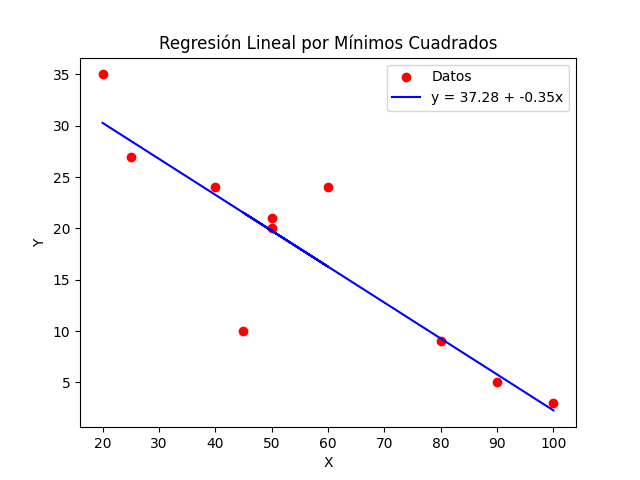
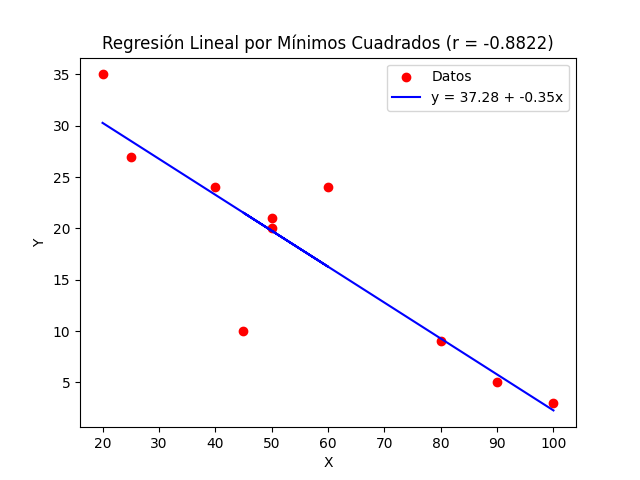
coeficiente

Changed region(s): [[0.1562, 0.0625, 0.875, 0.125]]

diff --git a/regresion.py b/regresion.py
@@ -1,4 +1,3 @@
-# regresion.py
 import matplotlib.pyplot as plt
 
 def calcular_regresion(x, y):
@@ -10,6 +9,7 @@ def calcular_regresion(x, y):
     sum_y = sum(y)
     sum_xy = sum(x[i] * y[i] for i in range(n))
     sum_x2 = sum(xi ** 2 for xi in x)
+    sum_y2 = sum(yi ** 2 for yi in y)
 
     # Calcular la pendiente (m)
     m = (n * sum_xy - sum_x * sum_y) / (n * sum_x2 - sum_x ** 2)
@@ -19,18 +19,42 @@ def calcular_regresion(x, y):
     # Calcular la intersección (b)
     b = y_media - m * x_media
 
+    # Calcular el coeficiente de correlación (r)
+    r_numerador = n * sum_xy - sum_x * sum_y
+    r_denominador = ((n * sum_x2 - sum_x ** 2) * (n * sum_y2 - sum_y ** 2)) ** 0.5
+    r = r_numerador / r_denominador if r_denominador != 0 else 0
+
     # Redondear resultados
     m = round(m, 2)
     b = round(b, 2)
+    r = round(r, 4)
 
-    return m, b
+    return m, b, r
 
-def graficar_regresion(x, y, m, b, output_path):
+def graficar_regresion(x, y, m, b, r, output_path):
     plt.scatter(x, y, color='red', label='Datos')
     plt.plot(x, [b + m * xi for xi in x], label=f'y = {b} + {m}x', color='blue')
     plt.xlabel('X')
     plt.ylabel('Y')
-    plt.title('Regresión Lineal por Mínimos Cuadrados')
+    plt.title(f'Regresión Lineal por Mínimos Cuadrados (r = {r})')
     plt.legend()
     plt.savefig(output_path)
     plt.close()
+
+def main():
+    x = [1, 2, 3, 4, 5]  # Ejemplo de datos de X
+    y = [2, 4, 5, 4, 5]  # Ejemplo de datos de Y
+    
+    # Calcular regresión y coeficiente de correlación
+    m, b, r = calcular_regresion(x, y)
+    
+    print(f"La ecuación de la recta es: y = {b} + {m}x")
+    print(f"Coeficiente de correlación (r): {r}")
+    
+    # Guardar la gráfica
+    output_path = 'grafica.png'
+    graficar_regresion(x, y, m, b, r, output_path)
+    print(f"Gráfica guardada en: {output_path}")
+
+if __name__ == "__main__":
+    main()

diff --git a/rute.py b/rute.py
@@ -22,11 +22,11 @@ def regresion():
             x = [float(i) for i in x_values.split(',')]
             y = [float(i) for i in y_values.split(',')]
 
-            m, b = calcular_regresion(x, y)
+            m, b, r = calcular_regresion(x, y)  # Incluimos el coeficiente de correlación 'r'
             plot_path = os.path.join('static', 'plot_regresion.png')
-            graficar_regresion(x, y, m, b, plot_path)
+            graficar_regresion(x, y, m, b, r, plot_path)  # Pasamos 'r' para mostrar en la gráfica
 
-            return render_template('regresion.html', m=m, b=b, plot_url=plot_path)
+            return render_template('regresion.html', m=m, b=b, r=r, plot_url=plot_path)
         
         except Exception as e:
             return render_template('regresion.html', error=str(e))
